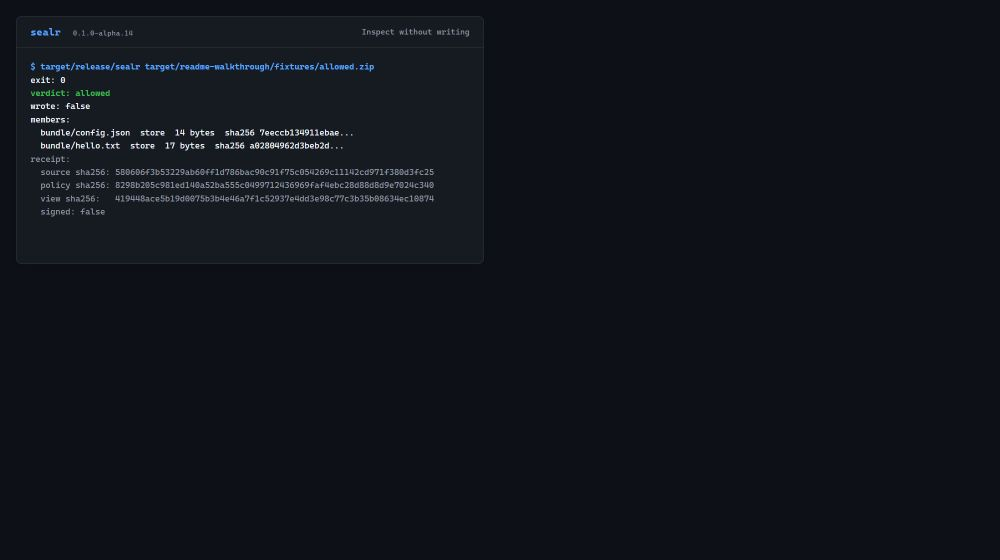
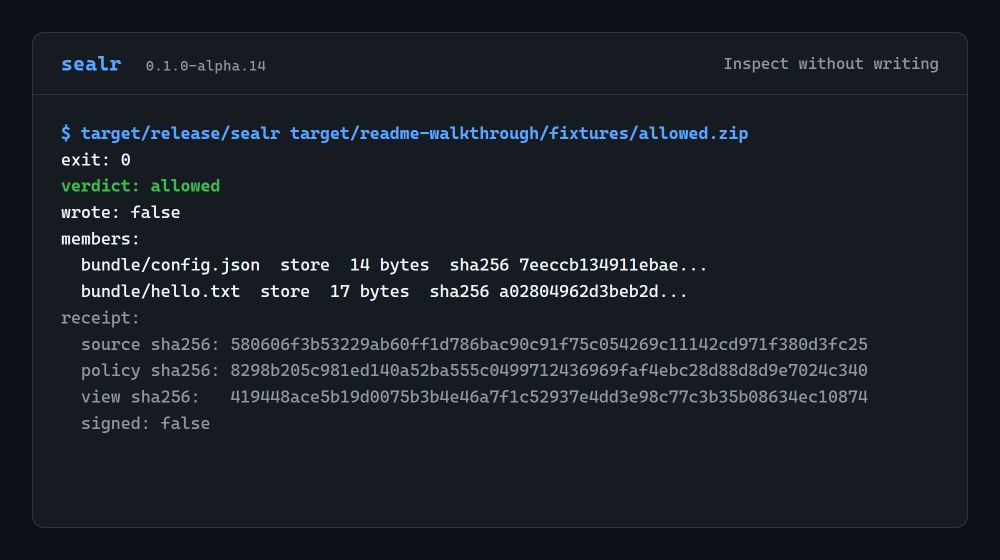
Correct the dark inspection image scale
Recapture the Linux inspection panel at its full size, update the image digest, and require review of saved capture geometry.

diff --git a/docs/walkthrough.md b/docs/walkthrough.md
@@ -72,5 +72,7 @@ checks the measured tool version and produces both light and dark themes.
 
 CI checks fixture and native transcript hashes against the committed asset
 manifest, then verifies all six PNG hashes, dimensions, density, size, and
-metadata policy. Screenshots are reviewed visually after capture. CI does not
+metadata policy. Review the saved PNGs themselves after capture, including the
+panel's full size and readable text in both themes. File dimensions alone do
+not detect content captured at the wrong browser scale. CI does not
 claim a pixel comparison. See the [capture policy](usage.md#documentation-capture-policy).
